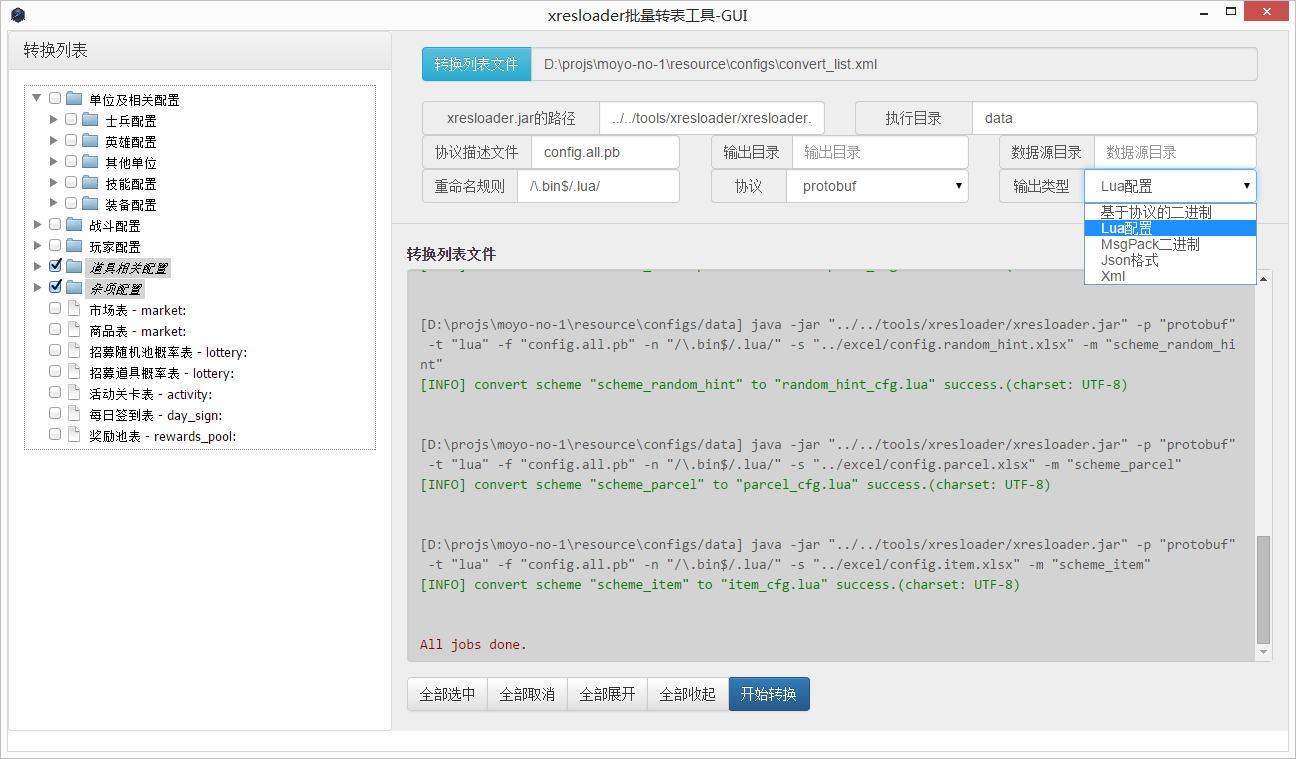
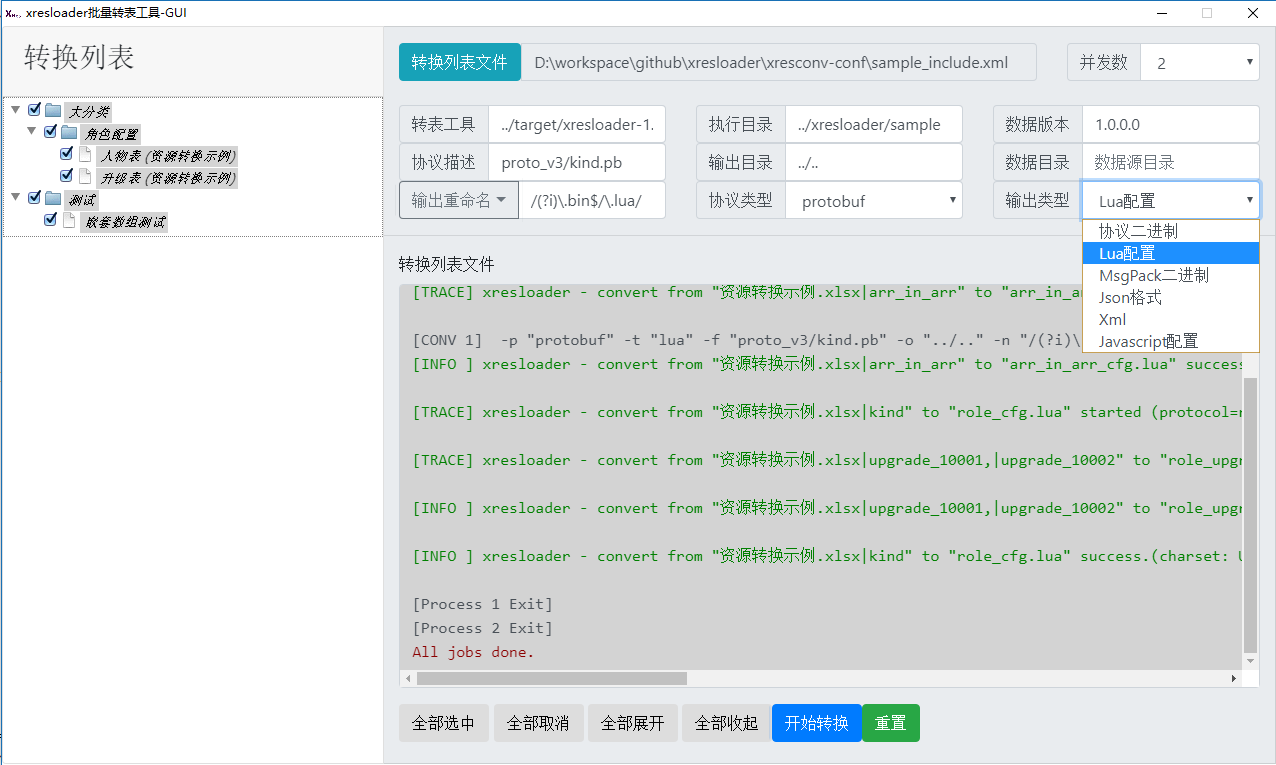
finish 1.4.1

diff --git a/src/index.html b/src/index.html
@@ -11,7 +11,7 @@
         module.paths.push(`${__dirname}/lib/jquery`);
         module.paths.push(`${__dirname}/lib/popper.js`);
         module.paths.push(`${__dirname}/lib/jquery.fancytree/modules`);
-        console.log(`${__dirname}/lib/jquery.fancytree/modules`);
+        // console.log(`${__dirname}/lib/jquery.fancytree/modules`);
         window.$ = window.jQuery = require('jquery');
         window.Popper = require('popper.min');
     </script>
@@ -40,159 +40,158 @@
 </head>
 
 <body>
-    <div class="panel panel-default" id="conv_list_panel">
-        <div class="panel-heading">
-            <h3 class="panel-title">转换列表</h3>
+    <div class="card-group">
+        <div class="card card-default" id="conv_list_panel">
+            <div class="card-header">
+                <h3 class="card-title">转换列表</h3>
+            </div>
+            <div class="card-body" id="conv_list">
+            </div>
         </div>
-        <div class="panel-body">
-            <div id="conv_list"></div>
-        </div>
-    </div>
 
-    <div class="jumbotron" id="info_list_panel">
-        <form class="container">
-            <div class="row">
-                <div class="col-md-9">
+        <div class="jumbotron card" id="info_list_panel">
+            <form class="container">
+                <div class="row">
+                    <div class="col-9">
+                        <div class="input-group">
+                            <span class="input-group-btn" for="conv_list_file_val">
+                                <button class="btn btn-info" type="button" id="conv_list_file_btn" >转换列表文件</button>
+                            </span>
+                            <input class="form-control" type="text" id="conv_list_file_val" placeholder="尚未载入任何文件，需要载入清单列表的xml文件(比如: convert_list.xml)"
+                                disabled="disabled" />
+                        </div>
+                    </div>
+                    <div class="col-3">
+                        <div class="input-group">
+                            <div class="input-group-prepend">
+                                <span class="input-group-text">并发数</span>
+                            </div>
+                            <select class="form-control" id="conv_config_parallelism"></select>
+                        </div>
+                    </div><input type="file" id="conv_list_file" placeholder="选择转换列表文件" />
+                </div>
+            </form>
+            <br />
+            <form class="container">
+                <div class="row">
+                    <div class="input-group col-4">
+                        <div class="input-group-prepend"><span class="input-group-text">转表工具</span></div>
+                        <input type="text" class="form-control" id="conv_list_xresloader" placeholder="xresloader.jar的路径" />
+                    </div>
+                    <div class="input-group col-4">
+                        <div class="input-group-prepend"><span class="input-group-text">执行目录</span></div>
+                        <input type="text" class="form-control" id="conv_list_work_dir" placeholder="执行目录" />
+                    </div>
+                    <div class="input-group col-4">
+                        <div class="input-group-prepend"><span class="input-group-text">数据版本</span></div>
+                        <input type="text" class="form-control" id="conv_list_data_version" placeholder="数据版本号" />
+                    </div>
+                </div>
+            </form>
+            <form class="container">
+                <div class="row">
+                    <div class="input-group col-4">
+                        <div class="input-group-prepend"><span class="input-group-text">协议描述</span></div>
+                        <input type="text" class="form-control" id="conv_list_proto_file" placeholder="协议描述文件" />
+                    </div>
+                    <div class="input-group col-4">
+                        <div class="input-group-prepend"><span class="input-group-text">输出目录</span></div>
+                        <input type="text" class="form-control" id="conv_list_output_dir" placeholder="输出目录" />
+                    </div>
+                    <div class="input-group col-4">
+                        <div class="input-group-prepend"><span class="input-group-text">数据目录</span></div>
+                        <input type="text" class="form-control" id="conv_list_data_src_dir" placeholder="数据源目录" />
+                    </div>
+                </div>
+                <div class="row">
+                    <div class="input-group col-4">
+                        <div class="input-group-prepend">
+                            <button class="btn btn-outline-secondary dropdown-toggle" type="button" data-toggle="dropdown" aria-haspopup="true" aria-expanded="false">输出重命名</button>
+                            <div class="dropdown-menu" id="conv_list_rename_samples">
+                                <a class="dropdown-item" href="#" data-rename="/\\.bin$/.lua/" >.bin后缀 =&gt; .lua</a>
+                                <a class="dropdown-item" href="#" data-rename="/\\.bin$/.json/">.bin后缀 =&gt; .json</a>
+                                <a class="dropdown-item" href="#" data-rename="/\\.bin$/.msgpack.bin/">.bin后缀 =&gt; .msgpack.bin</a>
+                                <a class="dropdown-item" href="#" data-rename="/\\.bin$/.xml/">.bin后缀 =&gt; .xml</a>
+                                <a class="dropdown-item" href="#" data-rename="/\\.bin$/.js/">.bin后缀 =&gt; .js</a>
+                            </div>
+                        </div>
+                        <input type="text" class="form-control" id="conv_list_rename" placeholder="正则表达式" />
+                    </div>
+                    <div class="input-group col-4">
+                        <div class="input-group-prepend"><span class="input-group-text">协议类型</span></div>
+                        <select class="form-control" id="conv_list_protocol">
+                            <option selected="selected" value="protobuf">protobuf</option>
+                            <option disabled="disabled" value="flatbuffer">flatbuffer</option>
+                            <option disabled="disabled" value="capnproto">capn's proto</option>
+                        </select>
+                    </div>
+                    <div class="input-group col-4">
+                        <div class="input-group-prepend"><span class="input-group-text">输出类型</span></div>
+                        <select class="form-control" id="conv_list_output_type">
+                            <option selected="selected" value="bin">协议二进制</option>
+                            <option value="lua">Lua配置</option>
+                            <option value="msgpack">MsgPack二进制</option>
+                            <option value="json">Json格式</option>
+                            <option value="xml">Xml</option>
+                            <option value="javascript">Javascript配置</option>
+                        </select>
+                    </div>
+                </div>
+            </form>
+            <hr />
+            <form class="container">
+                <div class="form-group">
+                    <label for="conv_list_file">转换列表文件</label>
+                    <pre id="conv_list_run_res" class="form-control" placeholder="运行日志:"></pre>
+                </div>
+
+                <div class="form-group">
                     <div class="input-group">
-                        <span class="input-group-btn" for="conv_list_file_val">
-                            <button class="btn btn-info" type="button" id="conv_list_file_btn" >转换列表文件</button>
+                        <span class="input-group-btn">
+                            <button id="conv_list_btn_select_all" type="button" class="btn btn-default">全部选中</button>
+                            <button id="conv_list_btn_select_none" type="button" class="btn btn-default">全部取消</button>
+                            <button id="conv_list_btn_expand" type="button" class="btn btn-default">全部展开</button>
+                            <button id="conv_list_btn_collapse" type="button" class="btn btn-default">全部收起</button>
                         </span>
-                        <input class="form-control" type="text" id="conv_list_file_val" placeholder="尚未载入任何文件，需要载入清单列表的xml文件(比如: convert_list.xml)"
-                            disabled="disabled" />
+                        <button id="conv_list_btn_start_conv" type="button" class="btn btn-primary">开始转换</button>
+                        <button type="button" class="btn btn-success" onclick="history.go(0);">重置</button>
                     </div>
                 </div>
-                <div class="col-md-3">
-                    <div class="input-group">
-                        <label class="input-group-addon" for="conv_config_parallelism">并发数&nbsp;</label>
-                        <select class="form-control" id="conv_config_parallelism"></select>
+            </form>
+        </div>
+
+        <div id="dlg_alert_error_modal" class="modal fade" tabindex="-1" role="dialog" aria-labelledby="dlg_alert_error_title" aria-hidden="true">
+            <div class="modal-dialog" role="document">
+                <div class="modal-content">
+                    <div class="modal-header">
+                        <button type="button" class="close" data-dismiss="modal" aria-label="Close"><span aria-hidden="true">&times;</span></button>
+                        <h4 class="modal-title" id="dlg_alert_error_title">Modal title</h4>
                     </div>
-                </div><input type="file" id="conv_list_file" placeholder="选择转换列表文件" />
-            </div>
-        </form>
-        <br />
-        <form class="form-inline container">
-            <div class="form-group col-md-4">
-                <div class="input-group">
-                    <label class="input-group-addon" for="conv_list_xresloader">转表工具&nbsp;</label>
-                    <input type="text" class="form-control" id="conv_list_xresloader" placeholder="xresloader.jar的路径" />
-                </div>
-            </div>
-            <div class="form-group col-md-4">
-                <div class="input-group">
-                    <label class="input-group-addon" for="conv_list_work_dir">执行目录&nbsp;</label>
-                    <input type="text" class="form-control" id="conv_list_work_dir" placeholder="执行目录" />
-                </div>
-            </div>
-            <div class="form-group col-md-4">
-                <div class="input-group">
-                    <label class="input-group-addon" for="conv_list_data_version">数据版本&nbsp;</label>
-                    <input type="text" class="form-control" id="conv_list_data_version" placeholder="数据版本号" />
-                </div>
-            </div>
-        </form>
-        <form class="form-inline container">
-            <div class="form-group col-md-4">
-                <div class="input-group">
-                    <label class="input-group-addon" for="conv_list_proto_file">协议描述&nbsp;</label>
-                    <input type="text" class="form-control" id="conv_list_proto_file" placeholder="协议描述文件" />
-                </div>
-            </div>
-            <div class="form-group col-md-4">
-                <div class="input-group">
-                    <label class="input-group-addon" for="conv_list_output_dir">输出目录&nbsp;</label>
-                    <input type="text" class="form-control" id="conv_list_output_dir" placeholder="输出目录" />
-                </div>
-            </div>
-            <div class="form-group col-md-4">
-                <div class="input-group">
-                    <label class="input-group-addon" for="conv_list_data_src_dir">数据目录&nbsp;</label>
-                    <input type="text" class="form-control" id="conv_list_data_src_dir" placeholder="数据源目录" />
-                </div>
-            </div>
-            <div class="form-group col-md-4">
-                <div class="input-group">
-                    <label class="input-group-addon" for="conv_list_rename">输出重命名&nbsp;</label>
-                    <input type="text" class="form-control" id="conv_list_rename" placeholder="正则表达式(双击查看示例)" />
-                </div>
-            </div>
-            <div class="form-group col-md-4">
-                <div class="input-group">
-                    <label class="input-group-addon" for="conv_list_protocol">协议类型&nbsp;</label>
-                    <select class="form-control" id="conv_list_protocol">
-                        <option selected="selected" value="protobuf">protobuf</option>
-                        <option disabled="disabled" value="flatbuffer">flatbuffer</option>
-                        <option disabled="disabled" value="capnproto">capn's proto</option>
-                    </select>
-                </div>
-            </div>
-            <div class="form-group col-md-4">
-                <div class="input-group">
-                    <label class="input-group-addon" for="conv_list_output_type">输出类型&nbsp;</label>
-                    <select class="form-control" id="conv_list_output_type">
-                        <option selected="selected" value="bin">协议二进制</option>
-                        <option value="lua">Lua配置</option>
-                        <option value="msgpack">MsgPack二进制</option>
-                        <option value="json">Json格式</option>
-                        <option value="xml">Xml</option>
-                        <option value="javascript">Javascript配置</option>
-                    </select>
-                </div>
-            </div>
-        </form>
-        <hr />
-        <form class="container">
-            <div class="form-group">
-                <label for="conv_list_file">转换列表文件</label>
-                <pre id="conv_list_run_res" class="form-control" placeholder="运行日志:"></pre>
-            </div>
-
-            <div class="form-group">
-                <div class="input-group">
-                    <span class="input-group-btn">
-                        <button id="conv_list_btn_select_all" type="button" class="btn btn-default">全部选中</button>
-                        <button id="conv_list_btn_select_none" type="button" class="btn btn-default">全部取消</button>
-                        <button id="conv_list_btn_expand" type="button" class="btn btn-default">全部展开</button>
-                        <button id="conv_list_btn_collapse" type="button" class="btn btn-default">全部收起</button>
-                    </span>
-                    <button id="conv_list_btn_start_conv" type="button" class="btn btn-primary">开始转换</button>
-                    <button type="button" class="btn btn-success" onclick="history.go(0);">重置</button>
-                </div>
-            </div>
-        </form>
-    </div>
-
-    <div id="dlg_alert_error_modal" class="modal fade" tabindex="-1" role="dialog" aria-labelledby="dlg_alert_error_title" aria-hidden="true">
-        <div class="modal-dialog" role="document">
-            <div class="modal-content">
-                <div class="modal-header">
-                    <button type="button" class="close" data-dismiss="modal" aria-label="Close"><span aria-hidden="true">&times;</span></button>
-                    <h4 class="modal-title" id="dlg_alert_error_title">Modal title</h4>
-                </div>
-                <div class="modal-body" id="dlg_alert_error_content">
-                </div>
-                <div class="modal-footer">
-                    <button type="button" class="btn btn-secondary" data-dismiss="modal">关闭</button>
+                    <div class="modal-body" id="dlg_alert_error_content">
+                    </div>
+                    <div class="modal-footer">
+                        <button type="button" class="btn btn-secondary" data-dismiss="modal">关闭</button>
+                    </div>
                 </div>
             </div>
         </div>
-    </div>
 
-    <div id="dlg_parallelism_warning_modal" class="modal fade" tabindex="-1" role="dialog" aria-labelledby="dlg_parallelism_warning_title"
-        aria-hidden="true">
-        <div class="modal-dialog" role="document">
-            <div class="modal-content">
-                <div class="modal-header">
-                    <h4 class="modal-title" id="dlg_parallelism_warning_title">高并行度警告</h4>
-                </div>
-                <div class="modal-body" id="dlg_parallelism_warning_content">
-                </div>
-                <div class="modal-footer">
-                    <button type="button" class="btn btn-secondary" data-dismiss="modal">确定</button>
-                    <button type="button" class="btn btn-secondary" data-dismiss="modal">取消</button>
+        <div id="dlg_parallelism_warning_modal" class="modal fade" tabindex="-1" role="dialog" aria-labelledby="dlg_parallelism_warning_title"
+            aria-hidden="true">
+            <div class="modal-dialog" role="document">
+                <div class="modal-content">
+                    <div class="modal-header">
+                        <h4 class="modal-title" id="dlg_parallelism_warning_title">高并行度警告</h4>
+                    </div>
+                    <div class="modal-body" id="dlg_parallelism_warning_content">
+                    </div>
+                    <div class="modal-footer">
+                        <button type="button" class="btn btn-secondary" data-dismiss="modal">确定</button>
+                        <button type="button" class="btn btn-secondary" data-dismiss="modal">取消</button>
+                    </div>
                 </div>
             </div>
         </div>
     </div>
 </body>
-
 </html>

diff --git a/src/main.js b/src/main.js
@@ -583,15 +583,15 @@ function alert_error(content, title) {
           dlg_body.empty();
           dlg_body
             .append(
-            '并发度过大时会导致JVM有很高的内存消耗，可能会导致执行过程中达到JVM堆栈内存而崩溃。')
+              '并发度过大时会导致JVM有很高的内存消耗，可能会导致执行过程中达到JVM堆栈内存而崩溃。')
             .append('<br />');
           dlg_body
             .append('通常可以通过修改JVM默认内存限制实现。(如: -Xmx2048m)')
             .append('<br />');
           dlg_body
             .append(
-            '您确定要把并发转表的进程数调整到 <strong>' + new_value +
-            '</strong> 吗？')
+              '您确定要把并发转表的进程数调整到 <strong>' + new_value +
+              '</strong> 吗？')
             .append('<br />');
 
           var btn_yes = $(
@@ -680,6 +680,9 @@ function alert_error(content, title) {
     });
 
     $('#conv_list_btn_start_conv').click(function () { conv_start(); });
+    $('a', '#conv_list_rename_samples').click(function () {
+      $('#conv_list_rename').val($(this).attr('data-rename'));
+    });
 
     // var rename_templates = [
     //   { value: '/\\.bin$/.lua/', label: '.bin后缀 => .lua' },

diff --git a/src/main.css b/src/main.css
@@ -1,24 +1,26 @@
 
 #conv_list_panel {
-    width: 30%;
-    height: 700px;
-    float: left;
+    max-width: 30%;
+    min-height: 100%;
     overflow: auto;
 }
 
 #info_list_panel {
-    width: 70%;
-    float: right;
     padding: 16px 0px 5px 0px;
     margin-bottom: 0px;
+    min-height: 100%;
 }
 
 #info_list_panel > form.form-inline > div > div {
     width: 100%;
 }
 
+#conv_list {
+    padding: 0;
+}
+
 #conv_list_run_res {
-    height: 393px;
+    height: 404px;
     background-color: LightGray;
 }
 

diff --git a/src/setup.js b/src/setup.js
@@ -1,5 +1,5 @@
 const app_config = {
-  debug: true,
+  debug: false,
   width: 1280,
   height: 768,
   minWidth: 1280,
@@ -25,7 +25,7 @@ function createWindow() {
     height: app_config.height,
     minWidth: app_config.minWidth,
     minHeight: app_config.minHeight,
-    resizable: true,
+    resizable: false,
     movable: true,
     closable: true,
     skipTaskbar: false,

diff --git a/CHANGELOG.md b/CHANGELOG.md
@@ -11,6 +11,7 @@
 7. 升级jquery.fancytree到2.28.0
 8. 升级popper.js到1.13.0
 9. 升级electron-packager到11.1.0
+10. 界面同步优化成bootstrap4
 
 
 1.4.0
